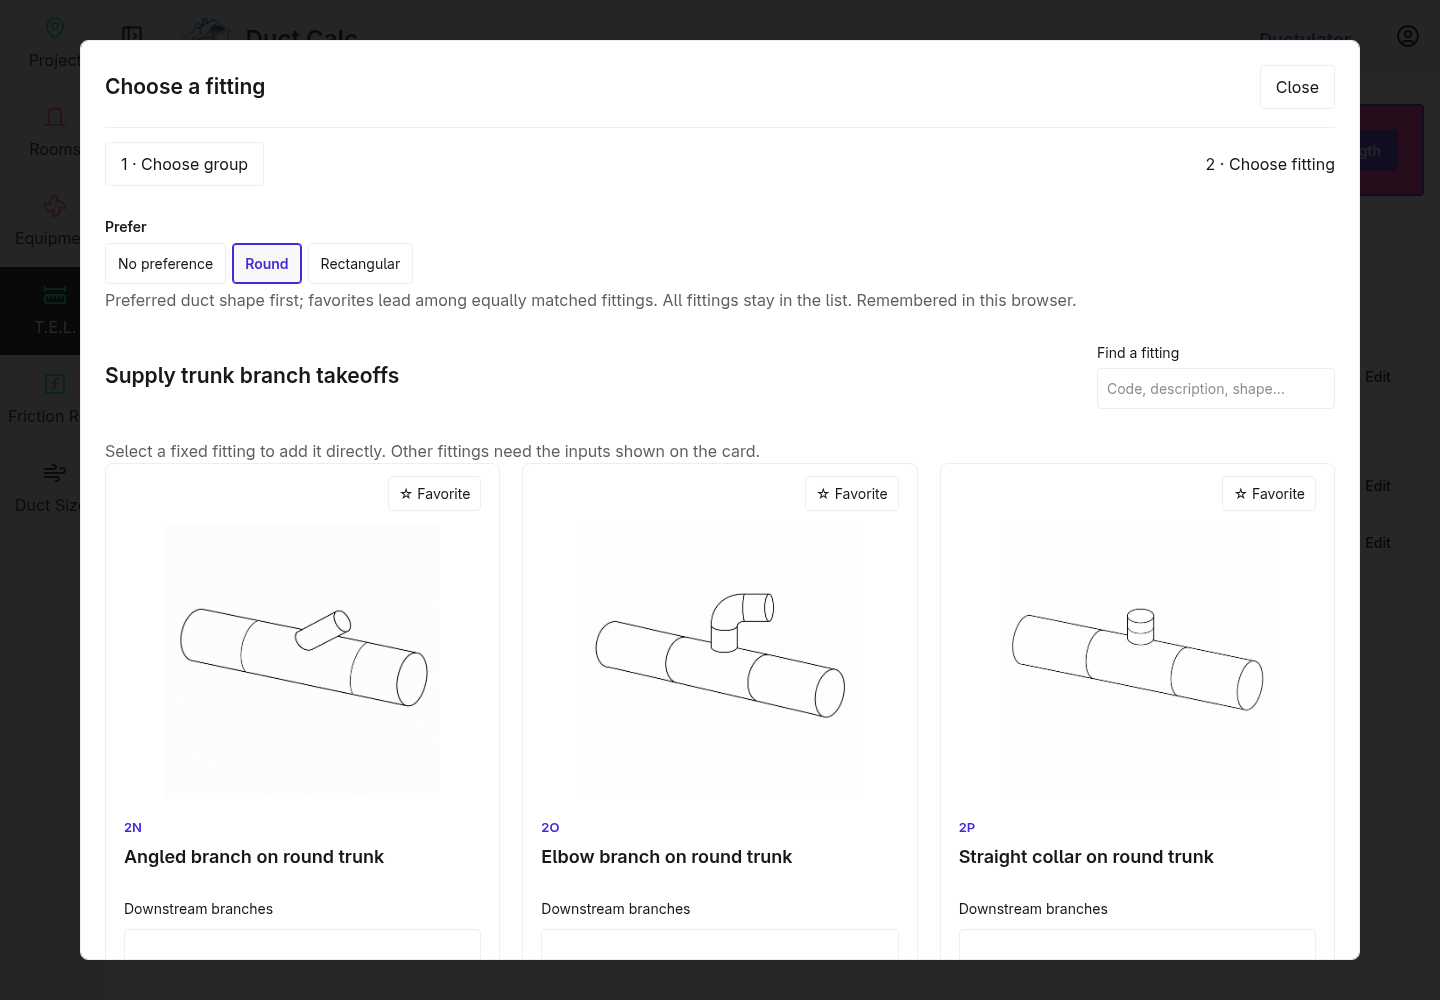
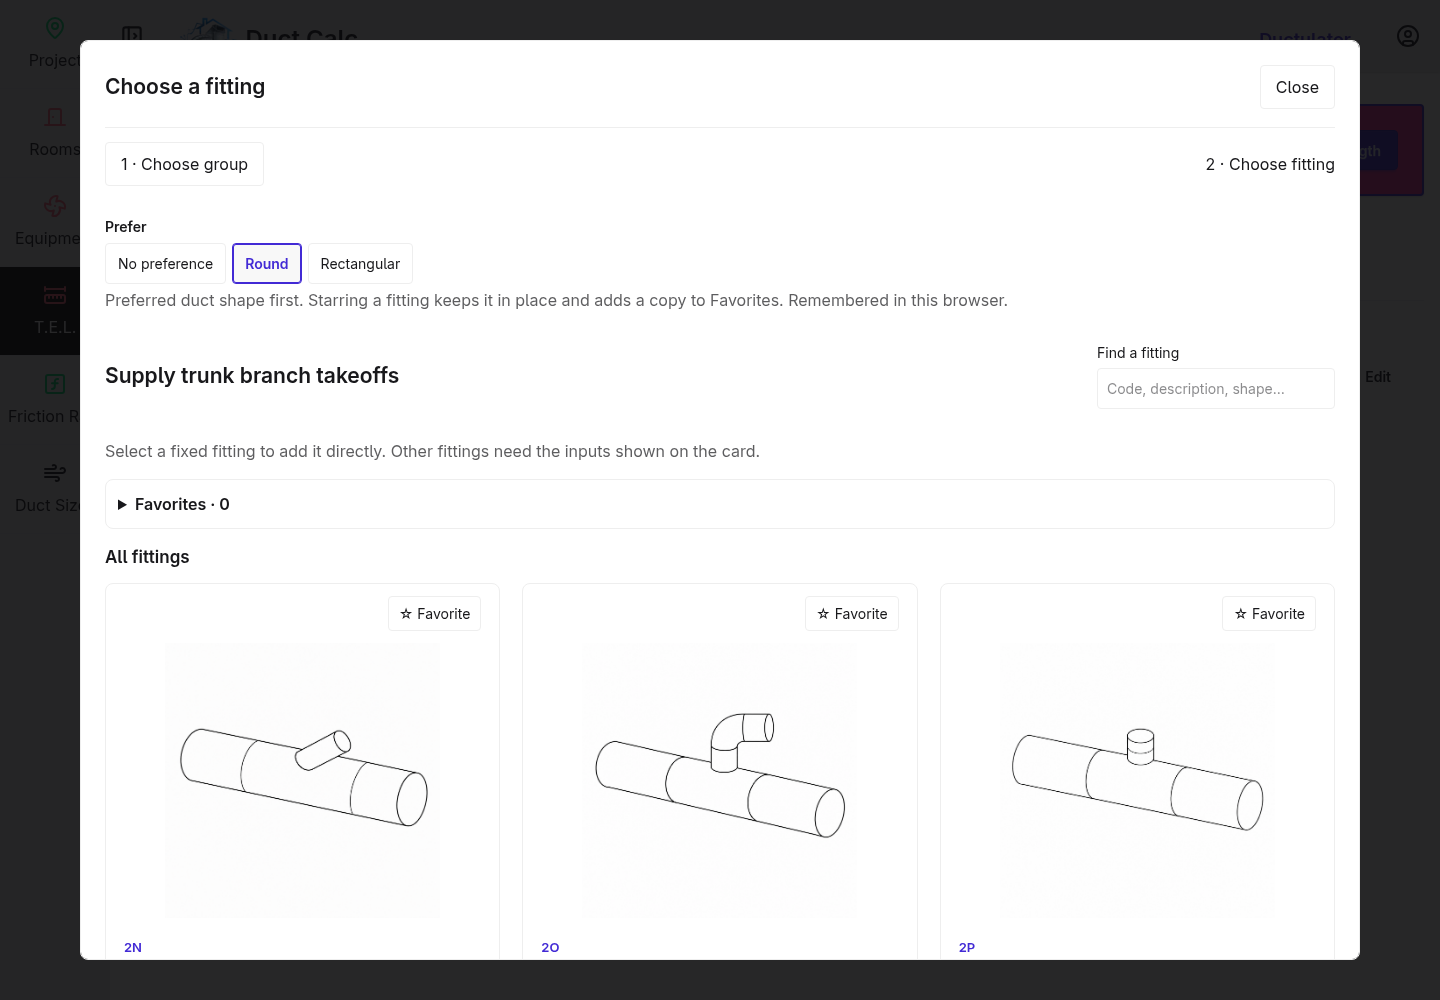
Keep fitting cards in place and show separate favorite copies

diff --git a/Public/js/fitting-path.js b/Public/js/fitting-path.js
@@ -8,7 +8,8 @@
     const baseline = JSON.parse(root.dataset.baseline), endpoint = root.dataset.endpoint;
     let entries = JSON.parse(root.dataset.rows), favorites = new Set(JSON.parse(root.dataset.favorites));
     let editing = null, dirty = false, busy = false, browserRequest = 0, rowsRequest = 0, editRequest = 0;
-    const requests = new WeakMap(), timers = new WeakMap();
+    const requests = new WeakMap(), timers = new WeakMap(), favoriteRequests = new Set();
+    let favoriteTemplates = new Map();
     const preferenceKey = 'fitting-picker.shape-preference.v1';
     let shapePreference = 'none';
     try {
@@ -137,30 +138,60 @@
         image.addEventListener('click', add); image.addEventListener('keydown', event => { if (event.key === 'Enter' || event.key === ' ') { event.preventDefault(); add(); } });
       }
     }
-    function sortFittings() {
-      const grid = $('#fitting-browser .fitting-grid'); if (!grid) return;
+    function shapeRank(card) {
+      if (shapePreference === 'none' || card.dataset.ductShape === shapePreference) return 0;
+      return ['mixed', 'schematic'].includes(card.dataset.ductShape) ? 1 : 2;
+    }
+    const compareCards = (a, b) => shapeRank(a) - shapeRank(b) || Number(a.dataset.order) - Number(b.dataset.order);
+    function updateFavoriteButtons() {
+      root.querySelectorAll('[data-favorite]').forEach(button => {
+        const selected = favorites.has(button.dataset.favorite);
+        button.setAttribute('aria-pressed', String(selected)); button.textContent = selected ? '★ Favorite' : '☆ Favorite';
+        button.disabled = favoriteRequests.has(button.dataset.favorite);
+      });
+    }
+    function syncFavorites(anchor) {
+      const grid = $('#fitting-browser .favorite-grid'); if (!grid) return;
+      const top = anchor?.isConnected ? anchor.getBoundingClientRect().top : null;
       const active = document.activeElement;
-      const cards = [...grid.querySelectorAll('[data-catalog-id]')];
-      const rank = card => {
-        if (shapePreference === 'none' || card.dataset.ductShape === shapePreference) return 0;
-        return ['mixed', 'schematic'].includes(card.dataset.ductShape) ? 1 : 2;
-      };
-      cards.sort((a,b) => rank(a) - rank(b) || Number(favorites.has(b.dataset.catalogId)) - Number(favorites.has(a.dataset.catalogId)) || Number(a.dataset.order) - Number(b.dataset.order));
-      for (const card of cards) {
-        const button = card.querySelector('[data-favorite]'), selected = favorites.has(card.dataset.catalogId);
-        button.setAttribute('aria-pressed', String(selected)); button.textContent = selected ? '★ Favorite' : '☆ Favorite'; grid.append(card);
+      const existing = new Map([...grid.querySelectorAll('[data-favorite-copy]')].map(card => [card.dataset.favoriteCopy, card]));
+      for (const [id, card] of existing) {
+        if (!favorites.has(id)) { card.remove(); existing.delete(id); }
       }
-      filterFittings();
+      for (const [id, template] of favoriteTemplates) {
+        if (!favorites.has(id) || existing.has(id)) continue;
+        // Each copy starts with the catalog defaults and owns its own draft inputs.
+        const card = template.cloneNode(true); card.dataset.favoriteCopy = id; delete card.dataset.catalogId;
+        grid.append(card); bindConfiguration(card.querySelector('.fitting-configuration'), true);
+      }
+      [...grid.children].sort(compareCards).forEach(card => grid.append(card));
+      $('#catalog-favorite-count').textContent = grid.children.length;
+      updateFavoriteButtons(); filterFittings();
+      if (active?.isConnected && grid.contains(active)) active.focus({ preventScroll: true });
+      else if (active && !active.isConnected) $('#catalog-favorites > summary').focus({ preventScroll: true });
+      // Adding/removing copies above an expanded catalog must not move the source card
+      // on screen. Measure after the browser's own scroll anchoring has run.
+      if (top !== null && anchor.isConnected) $('#picker-dialog').scrollTop += anchor.getBoundingClientRect().top - top;
+    }
+    function sortFittings() {
+      const grid = $('#catalog-grid'); if (!grid) return;
+      const active = document.activeElement;
+      [...grid.children].sort(compareCards).forEach(card => grid.append(card));
+      syncFavorites();
       if (active && grid.contains(active)) active.focus({ preventScroll: true });
     }
     function filterFittings() {
       const target = $('#fitting-browser'), query = $('#catalog-search')?.value.trim().toLowerCase() || '';
-      let count = 0;
-      target.querySelectorAll('[data-catalog-id]').forEach(card => {
+      let count = 0, favoriteCount = 0;
+      target.querySelectorAll('[data-catalog-id], [data-favorite-copy]').forEach(card => {
         card.hidden = !card.dataset.search.toLowerCase().includes(query);
-        if (!card.hidden) count++;
+        if (!card.hidden) { if (card.dataset.favoriteCopy) favoriteCount++; else count++; }
       });
       if ($('#catalog-empty')) $('#catalog-empty').hidden = count > 0;
+      if ($('#favorites-empty')) {
+        $('#favorites-empty').hidden = favoriteCount > 0;
+        $('#favorites-empty').textContent = $('#catalog-favorite-count').textContent === '0' ? 'Star a fitting to keep a copy here.' : 'No favorites match your search.';
+      }
     }
     async function chooseGroup(groupID) {
       const current = ++browserRequest; $('#group-selectors').hidden = true;
@@ -169,7 +200,10 @@
         const html = await post('/fittings/group', { pathType: pathType(), groupID });
         if (current !== browserRequest) return;
         target.innerHTML = html; $('#picker-dialog').scrollTop = 0;
-        target.querySelectorAll('[data-catalog-id]').forEach((card, index) => { card.dataset.order = index; });
+        favoriteTemplates = new Map();
+        target.querySelectorAll('[data-catalog-id]').forEach((card, index) => {
+          card.dataset.order = index; favoriteTemplates.set(card.dataset.catalogId, card.cloneNode(true));
+        });
         target.querySelectorAll('.fitting-configuration').forEach(configuration => bindConfiguration(configuration, true));
         sortFittings();
         $('#catalog-search')?.addEventListener('input', filterFittings);
@@ -195,14 +229,21 @@
       if (button.id === 'choose-groups') { browserRequest++; showGroups(); return; }
       if (button.dataset.chooseGroup) { chooseGroup(Number(button.dataset.chooseGroup)); return; }
       if (button.dataset.favorite) {
-        const id = button.dataset.favorite, selected = !favorites.has(id); button.disabled = true;
+        const id = button.dataset.favorite, selected = !favorites.has(id), hadFocus = document.activeElement === button;
+        if (favoriteRequests.has(id)) return;
+        favoriteRequests.add(id); updateFavoriteButtons();
         try {
           const html = await post(`${endpoint}/favorite`, { fittingID: id, selected });
           if (!html.includes('data-favorite-saved')) throw Error('Favorite could not be saved. Please try again.');
           if (selected) favorites.add(id); else favorites.delete(id);
-          sortFittings();
+          syncFavorites(button.closest('[data-catalog-id]'));
         } catch (error) { $('#picker-status').textContent = error.message; }
-        finally { button.disabled = false; } return;
+        finally {
+          favoriteRequests.delete(id); updateFavoriteButtons();
+          if (hadFocus && [document.body, root, $('#picker-dialog')].includes(document.activeElement)) {
+            (button.isConnected ? button : $('#catalog-favorites > summary'))?.focus({ preventScroll: true });
+          }
+        } return;
       }
       if (button.dataset.row) {
         const row = JSON.parse(button.dataset.row), previous = entries.find(entry => entry.id === editing);

diff --git a/Public/css/fitting-favorites.css b/Public/css/fitting-favorites.css
@@ -1,0 +1,25 @@
+@scope (.fitting-path) {
+  .catalog-favorites {
+    border: 1px solid var(--line); border-radius: var(--radius-box, 10px);
+    padding: 12px; margin: 16px 0; font-size: inherit; color: var(--text);
+  }
+  .catalog-favorites > summary { font-weight: 600; min-height: 24px; }
+  .favorite-grid { margin-top: 16px; }
+  .catalog-list-title { margin: 16px 0 12px; }
+
+  /* Favorite copies retain the wide junction-box configuration layout. */
+  .favorite-grid:has([data-favorite-copy="11-junction-box"]) { grid-template-columns:minmax(0,1fr)!important; }
+  [data-favorite-copy="11-junction-box"] .fitting-configuration { display:grid; grid-template-columns:minmax(0,1fr) minmax(0,1fr); gap:0 28px; padding:24px; }
+  [data-favorite-copy="11-junction-box"] .fp-config-art { grid-column:1; grid-row:1/5; margin-top:0; }
+  [data-favorite-copy="11-junction-box"] .fp-active-art { height:380px; }
+  [data-favorite-copy="11-junction-box"] .fp-eyebrow { grid-column:2; grid-row:1; }
+  [data-favorite-copy="11-junction-box"] h2 { grid-column:2; grid-row:2; }
+  [data-favorite-copy="11-junction-box"] .fp-fields { grid-column:2; grid-row:3; }
+  [data-favorite-copy="11-junction-box"] .fp-result { grid-column:2; grid-row:4; }
+  [data-favorite-copy="11-junction-box"] .fp-drawing-links { grid-column:1/-1; grid-row:5; }
+  [data-favorite-copy="11-junction-box"] .fp-conditions { grid-column:1/-1; grid-row:6; }
+  @media(max-width:700px) {
+    [data-favorite-copy="11-junction-box"] .fitting-configuration { display:flex; padding:16px; }
+    [data-favorite-copy="11-junction-box"] .fp-active-art { height:240px; }
+  }
+}

diff --git a/Sources/ViewController/Views/FittingPicker/ProjectFittingPathView.swift b/Sources/ViewController/Views/FittingPicker/ProjectFittingPathView.swift
@@ -13,6 +13,7 @@ struct ProjectFittingPathView: HTML, Sendable {
   var body: some HTML {
     link(.rel(.stylesheet), .href("/css/fitting-path.css"))
     link(.rel(.stylesheet), .href("/css/picker-preference.css"))
+    link(.rel(.stylesheet), .href("/css/fitting-favorites.css"))
     link(.rel(.stylesheet), .href("/css/fitting-path-modal.css"))
     script(.src("/js/group-carousel.js"), .defer) {}
     script(.src("/js/fitting-path.js"), .defer) {}
@@ -102,7 +103,7 @@ struct ProjectFittingPathView: HTML, Sendable {
             .init(value: "rectangular", label: "Rectangular"),
           ], selected: "none")
         p(.class("muted picker-preference-help")) {
-          "Preferred duct shape first; favorites lead among equally matched fittings. All fittings stay in the list. Remembered in this browser."
+          "Preferred duct shape first. Starring a fitting keeps it in place and adds a copy to Favorites. Remembered in this browser."
         }
         div(.id("group-selectors")) {
           for (path, items) in carousels {

diff --git a/Sources/ViewController/Views/FittingPicker/ProjectFittingPathController.swift b/Sources/ViewController/Views/FittingPicker/ProjectFittingPathController.swift
@@ -222,7 +222,16 @@ struct GroupBrowserView: HTML, Sendable {
     p(.class("muted")) {
       "Select a fixed fitting to add it directly. Other fittings need the inputs shown on the card."
     }
-    div(.class("grid fitting-grid")) { for card in cards { card } }
+    details(.id("catalog-favorites"), .class("catalog-favorites")) {
+      summary {
+        "Favorites · "
+        span(.id("catalog-favorite-count")) { "0" }
+      }
+      div(.class("grid favorite-grid")) {}
+      p(.id("favorites-empty"), .class("muted")) { "Star a fitting to keep a copy here." }
+    }
+    h3(.class("catalog-list-title")) { "All fittings" }
+    div(.id("catalog-grid"), .class("grid fitting-grid")) { for card in cards { card } }
     p(.id("catalog-empty"), .hidden) { "No matching fittings in this group." }
   }
 }

diff --git a/docs/fitting-picker-preview.md b/docs/fitting-picker-preview.md
@@ -12,11 +12,11 @@ the editor and draft open.
 ## What is implemented
 
 - The prototype's tall path rows, drawing-led Add fitting dialog, three-card looping
-  group carousel, favorites-first cards, inline conditional inputs, and fitting totals.
+  group carousel, favorite copies, inline conditional inputs, and fitting totals.
 - **Prefer: No preference / Round / Rectangular** reorders one continuous list; it
   adds no sections and hides no fittings. Direct matches come first, followed by mixed
-  connections/shape-neutral schematics, then other shapes. Favorites lead among equally
-  matched fittings; No preference restores favorites-first source order.
+  connections/shape-neutral schematics, then other shapes. Source order breaks ties;
+  No preference restores source order. Favoriting never changes this order.
   Group 2 uses **trunk shape**: Round puts **2N–2Q first**; Rectangular puts **2A–2M first**,
   including round branches on rectangular trunks. Mixed boots remain available without
   being treated as direct matches for both shapes.
@@ -30,6 +30,11 @@ the editor and draft open.
   a calculated fitting. Repeated rows stay separate.
 - Save/reopen, rename, quantity edits, removal, and fitting edits work on real project paths.
 - Favorites are stored per user in the database and shared across projects/devices.
+  A collapsible **Favorites** area holds duplicate cards for the current group. Originals
+  stay in the complete list. Starring a fitting keeps its position, scroll location, and
+  inputs intact, including when the Favorites area is expanded. Either copy can add to
+  the path. Favorites save the fitting choice; each card starts at catalog defaults and
+  has independent draft inputs. Search and shape ordering apply to both lists.
 - Groups 1, 2, 3, 5, and 6 show non-blocking repeated-use warnings. Changing path type
   retains the draft and requires incompatible rows to be resolved before saving.
 - 8O starts at **Mitered**. Group 11 has one **Velocity in flex duct** box control and
@@ -52,6 +57,10 @@ the editor and draft open.
 
 ![Preference toggle on mobile](images/fitting-picker/preference-mobile.png)
 
+![Favorite copies above the complete fitting list](images/fitting-picker/favorites.png)
+
+![Favorite copies on mobile](images/fitting-picker/favorites-mobile.png)
+
 ## Code ownership
 
 | Location | Responsibility |
@@ -66,6 +75,7 @@ the editor and draft open.
 | `Sources/DatabaseClient` | Additive saved-row metadata, project ownership lookup, and per-user favorites |
 | `Public/js/fitting-path.js`, `group-carousel.js` | Interaction state, gestures, requests, quantities, and totals |
 | `Public/css/fitting-path-modal.css` | Desktop/mobile editor dimensions and spacing |
+| `Public/css/fitting-favorites.css` | Collapsible favorite-copy layout |
 | `Public/css/picker-preference.css` | Scoped preference toggle styles |
 | `Public/css/fitting-path.css` | Scoped presentation ported from the agreed prototype |
 
@@ -143,6 +153,7 @@ FITTING_APP_URL=http://localhost:8081 node scripts/check_fitting_path.cjs
 node scripts/check_fitting_path_edges.cjs
 node scripts/check_fitting_preference.cjs
 node scripts/check_fitting_modal.cjs
+node scripts/check_fitting_favorites.cjs
 ```
 
 If Playwright is installed outside the checkout, set `NODE_PATH` to its `node_modules`
@@ -150,9 +161,12 @@ directory. The scripts check real save/reopen/edit flows, fractional reference l
 quantities, favorites across reloads, Group 11 controls, Group 6 saved contributions,
 server-authoritative calculations, row identity, stale-save rejection, carousel looping,
 and desktop/mobile layouts. The preference check covers ordering, mixed connections,
-Group 2 trunk-shape ordering, favorites among equal matches, searches across shapes, unchanged card inputs and saved paths,
+Group 2 trunk-shape ordering, stable catalog order when favoriting, searches across shapes, unchanged card inputs and saved paths,
 keyboard navigation, mobile layout, reload persistence, and blocked browser storage.
 The modal change passes all **15 Swift view and picker tests**. Browser flows save back
 to the list and reopen through its Edit link. The modal check verifies viewport sizing,
 child-dialog dismissal and focus restoration, accepted/declined discard, failed-save
-retention, and cancellation with no changes. Temporary test session data and screenshots are written to `/tmp`.
+retention, and cancellation with no changes. The favorites check verifies the exact
+scroll → star → add sequence, unchanged card coordinates with Favorites collapsed or
+expanded, adding from both copies, independent conditional inputs, search, mobile layout,
+Group 11 copy controls, keyboard focus restoration, and failed favorite writes. All **7 Swift picker tests** also pass after the favorites change. Temporary test session data and screenshots are written to `/tmp`.
